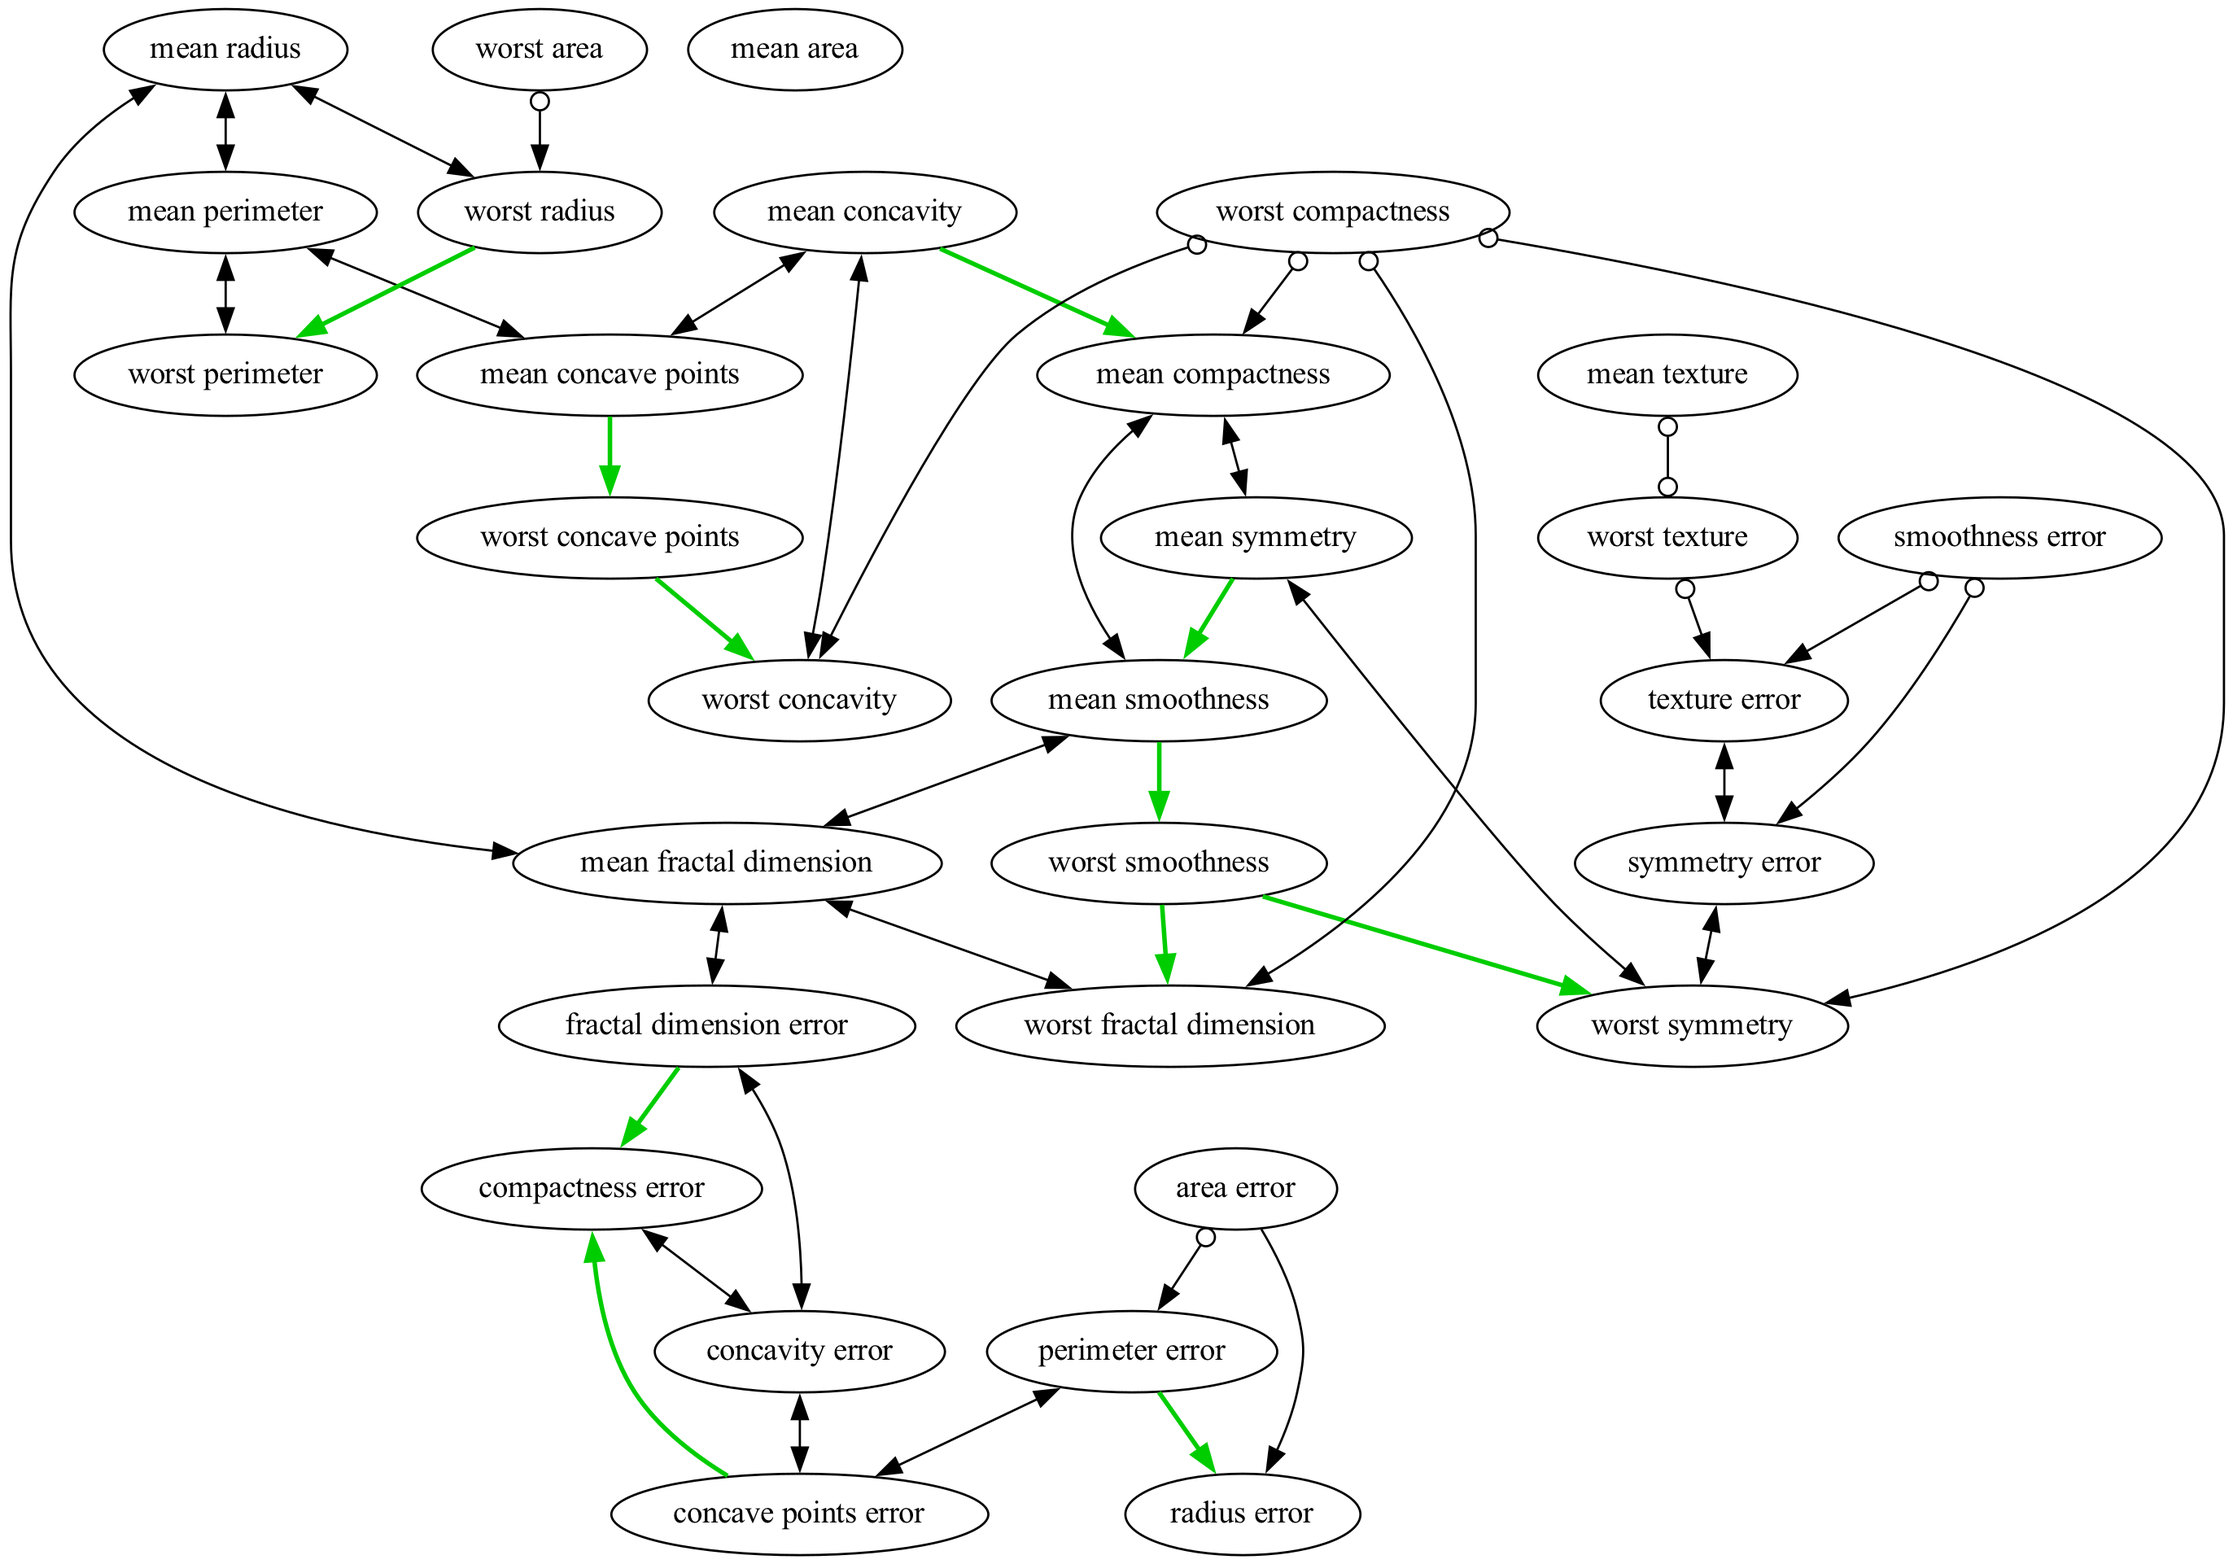
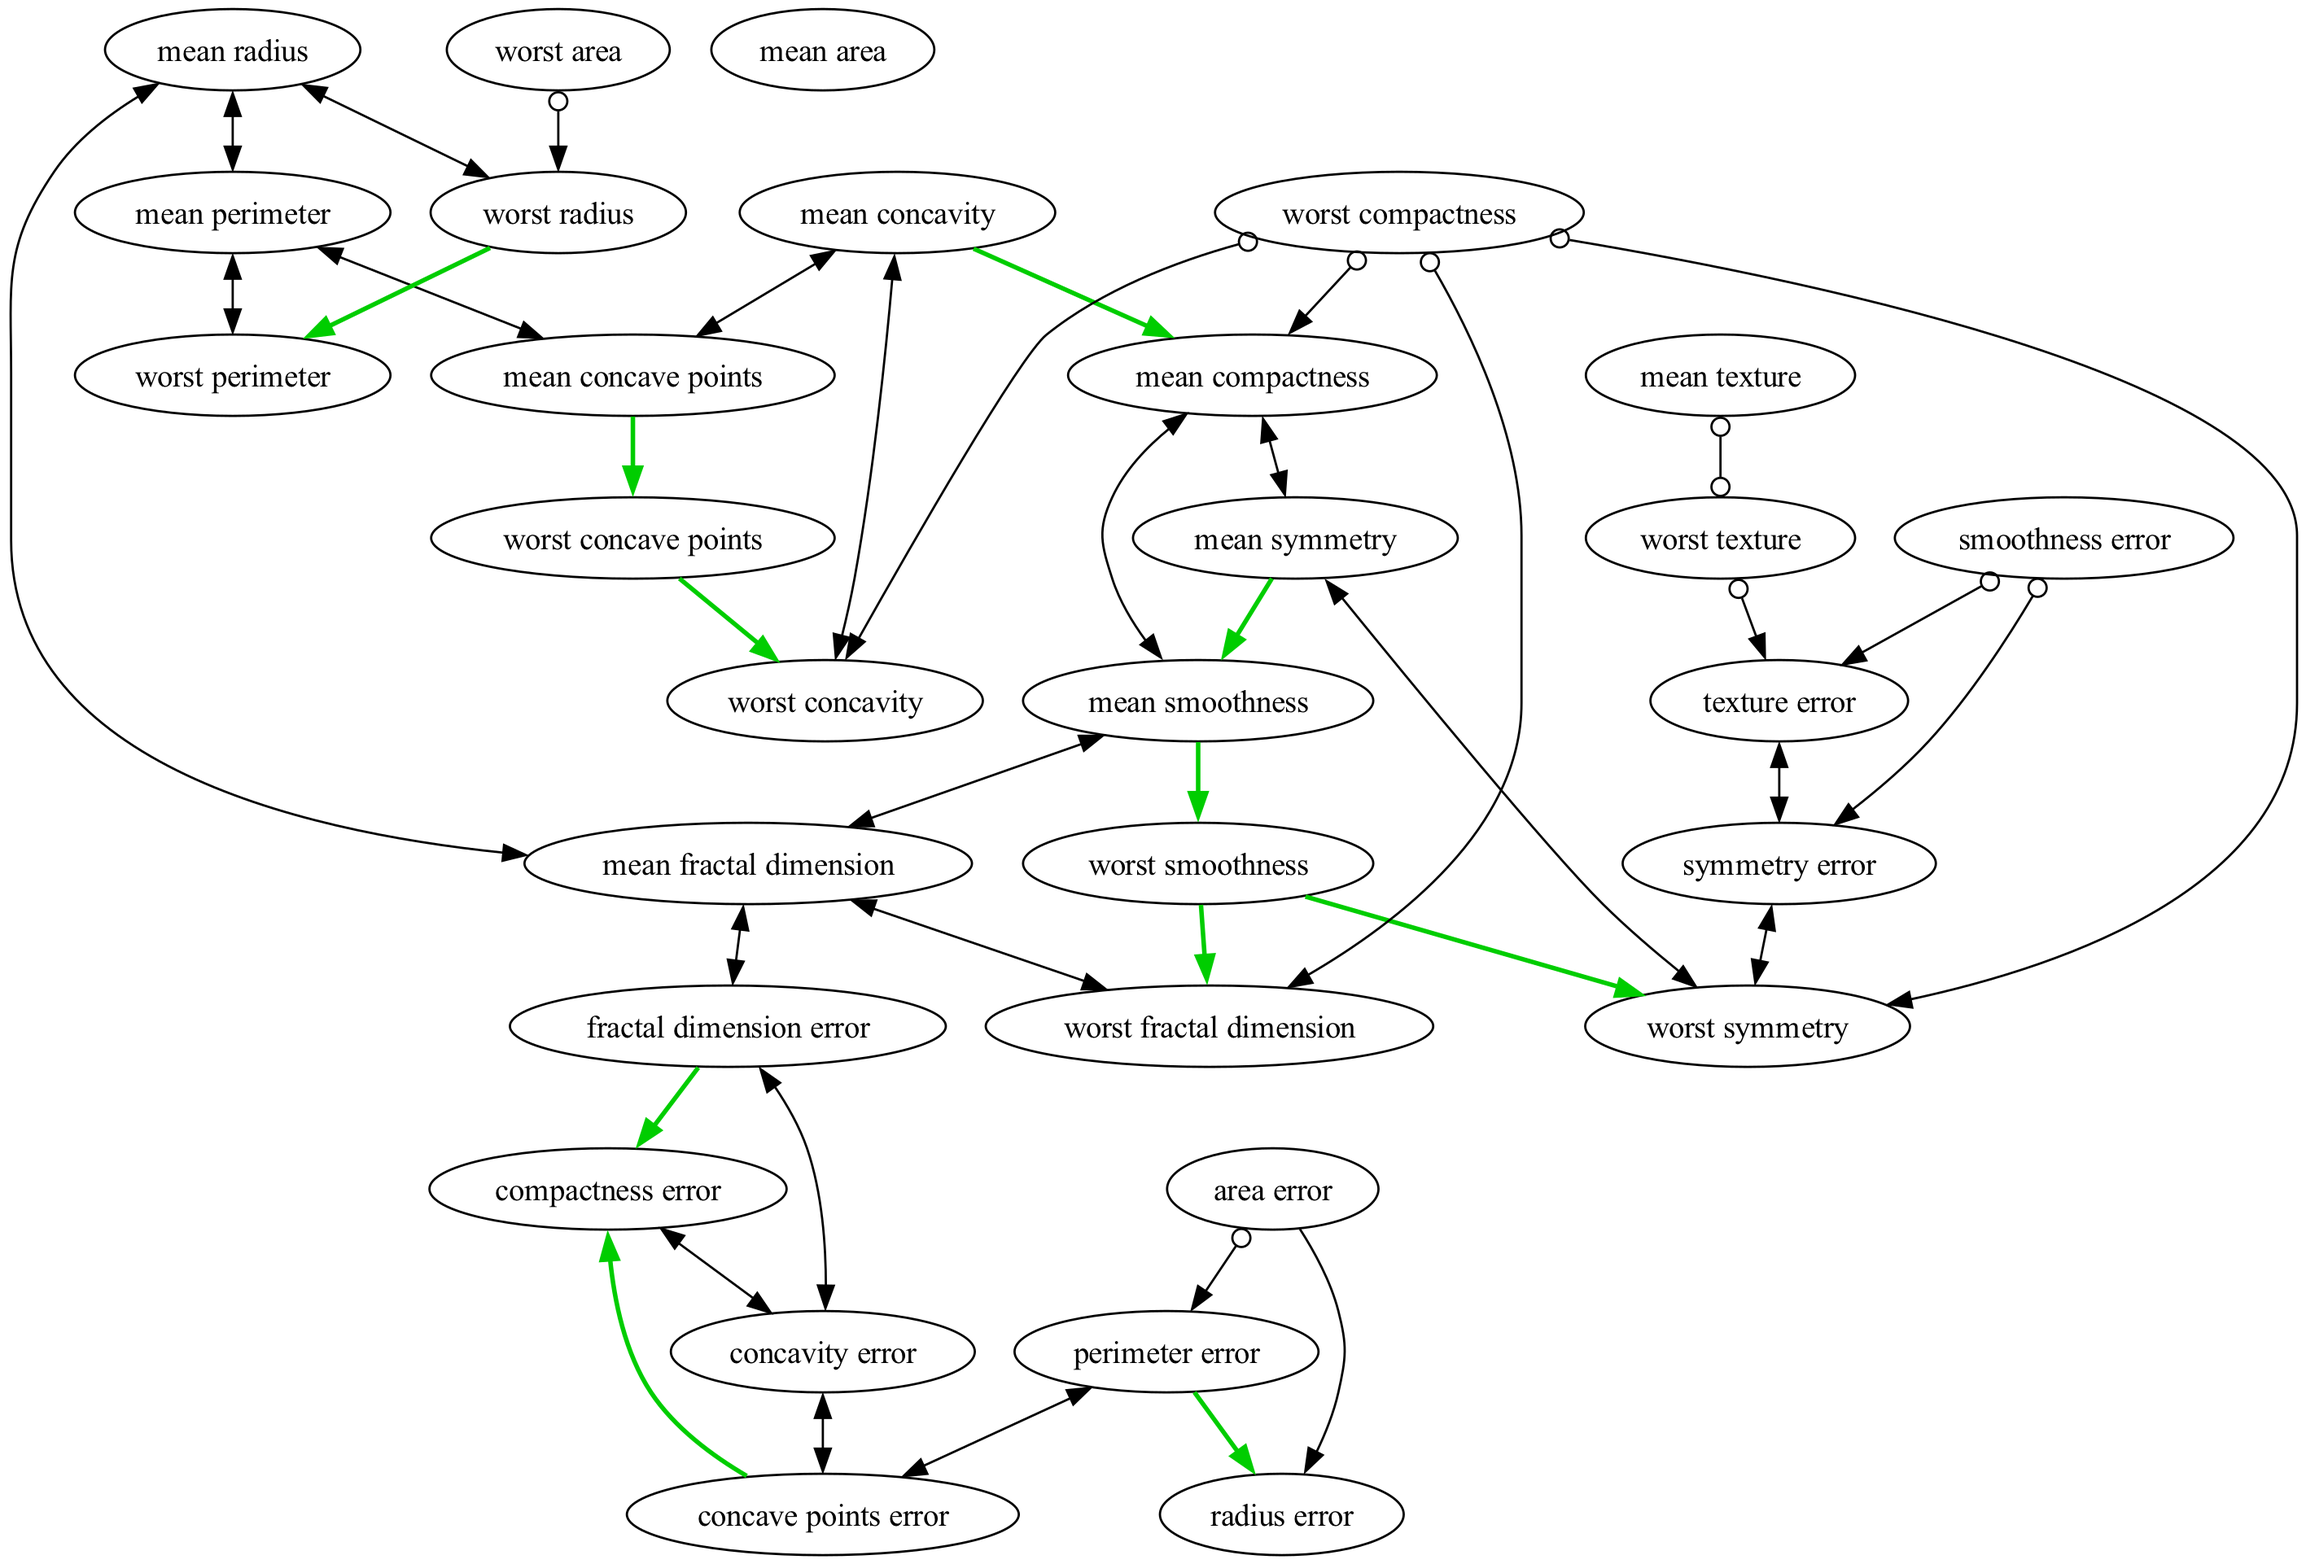
minor updates

diff --git a/src/causal_graph.py b/src/causal_graph.py
@@ -90,10 +90,13 @@ class CausalGraph():
                     self.edges.remove(edge)
             self.no_d_sep = True
             self.no_d_sep_str = "_no_d_separation"
-        self.__remove_ancestor_edges()
-        self.__remove_common_causal_effect_edges()
-        self.__remove_cirle_edges()
+        # self.__remove_ancestor_edges()
+        # self.__remove_common_causal_effect_edges()
+        # self.__remove_cirle_edges()
     
+    # TODO: Implement this method
+    # def identify_
+
     def __remove_cirle_edges(self) -> None:
         for edge in self.edges:
             if str(edge.get_endpoint1()) == "CIRCLE":

diff --git a/main.py b/main.py
@@ -8,7 +8,7 @@ initial_data = load_breast_cancer()
 
 causal_graph = CausalGraph(initial_data_array=initial_data, 
                            class_used=True, 
-                           no_d_sep=True, 
+                           no_d_sep=False, 
                            remove_common_causes=False, 
                            independence_test="fisherz")
 causal_graph.create_graph()
